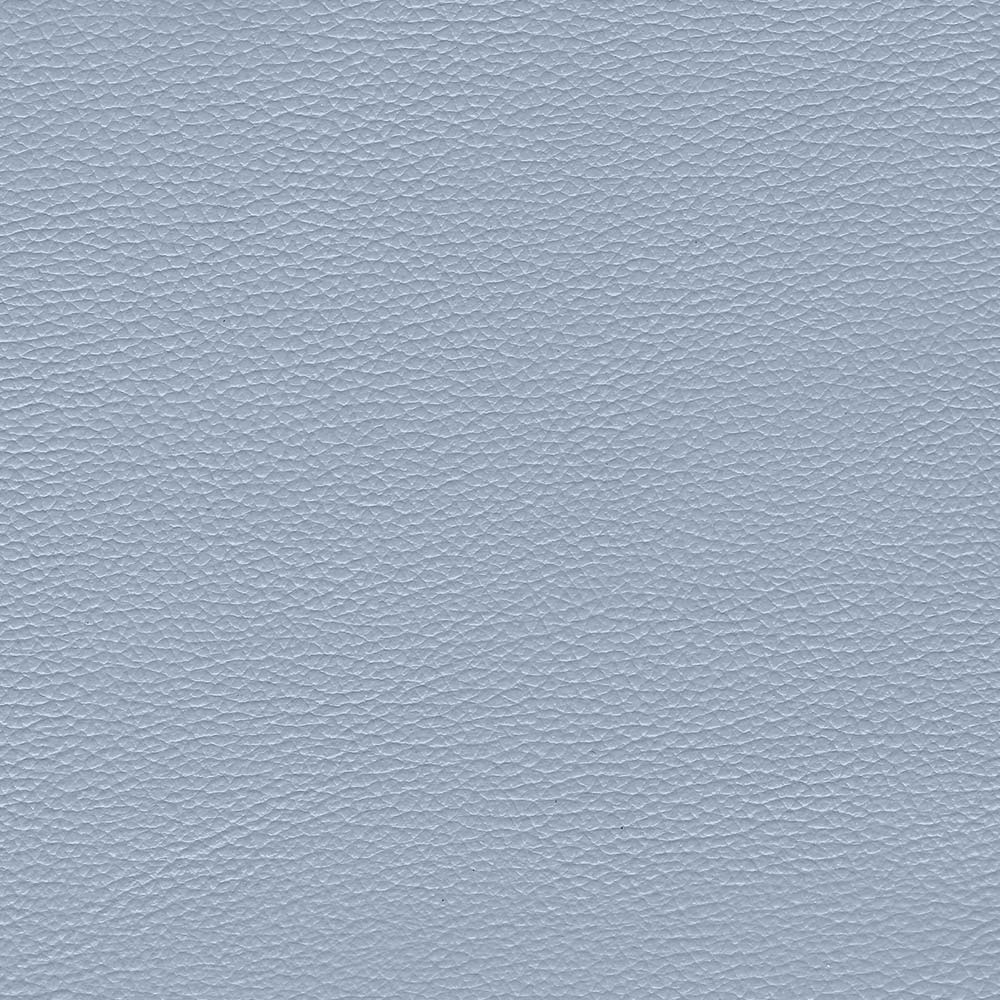
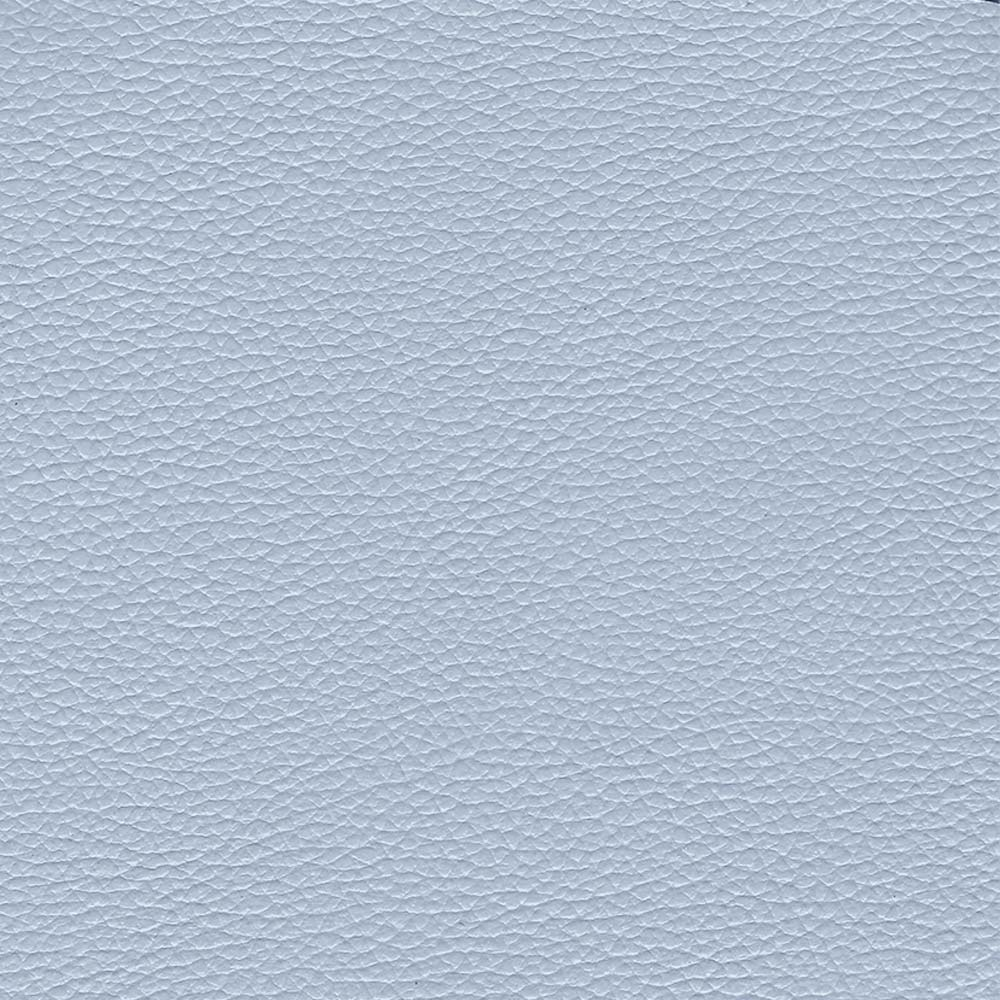
carrinho: kit em bundle mostra o preço cheio riscado e a etiqueta do desconto

diff --git a/assets/ame-theme.js b/assets/ame-theme.js
@@ -354,11 +354,20 @@ document.addEventListener('DOMContentLoaded', () => {
       ? item.featured_image.url.replace(/(\.[^.?]+)(\?.*)?$/, '_200x200$1$2')
       : '';
     const v = item.variant_title && item.variant_title !== 'Default Title';
-    const disc =
-      item.original_line_price !== item.final_line_price
-        ? `<span class="ame-cart-item__price-original">${fmt(item.original_line_price)}</span>`
-        : '';
     const props = item.properties || {};
+    // Kit vendido como bundle: desconto é PREÇO da variação, a Shopify não risca
+    // nada. O ame-kit.js manda o preço cheio por unidade em `_preco_cheio`
+    // (centavos). Manter igual ao bloco de preço de snippets/cart-drawer.liquid.
+    const kitCheio = (parseInt(props._preco_cheio, 10) || 0) * (item.quantity || 1);
+    let disc = '';
+    if (item.original_line_price !== item.final_line_price) {
+      disc = `<span class="ame-cart-item__price-original">${fmt(item.original_line_price)}</span>`;
+    } else if (kitCheio > item.final_line_price) {
+      const pct = Math.round(((kitCheio - item.final_line_price) * 100) / kitCheio);
+      disc =
+        `<span class="ame-cart-item__kit-tag">−${pct}% no kit</span>` +
+        `<span class="ame-cart-item__price-original">${fmt(kitCheio)}</span>`;
+    }
     // Lê _kit (novo) ou _coleira_key (legado — retrocompat pra carts abertos
     // com pedido gerado antes da renomeação).
     const coleiraKey = props._kit || props._coleira_key || '';

diff --git a/assets/ame-kit.js b/assets/ame-kit.js
@@ -1067,6 +1067,10 @@
                     quantity: 1,
                     properties: Object.assign({}, ...propsByComp, {
                         _from_kit: '1',
+                        // Preço cheio (soma das peças, centavos, por unidade): o
+                        // carrinho usa pra riscar e mostrar o desconto do kit —
+                        // o /cart.js não traz compare_at. Só exibição.
+                        ...(bv.cheio > bv.preco ? { _preco_cheio: String(bv.cheio) } : {}),
                         ...(willAddPingente ? { _kit: coleiraKey } : {}),
                         ...(Object.keys(camposPorPeca).length ? { _campos_kit: JSON.stringify(camposPorPeca) } : {}),
                     }),

diff --git a/assets/critical.css b/assets/critical.css
@@ -1884,6 +1884,20 @@ body::after {
   text-decoration: line-through;
 }
 
+/* Etiqueta do desconto do kit (preço da variação do bundle, não desconto da
+   Shopify) — acima do preço cheio riscado. */
+.ame-cart-item__kit-tag {
+  padding: 0.125rem 0.5rem;
+  border-radius: 999px;
+  background: var(--pdp-btn-bg, var(--color-primary, #5a4742));
+  color: var(--pdp-btn-fg, var(--color-on-primary, #ffffff));
+  font-size: 0.625rem;
+  font-weight: 600;
+  letter-spacing: 0.04em;
+  text-transform: uppercase;
+  white-space: nowrap;
+}
+
 .ame-cart-item__price {
   font-size: 0.9375rem;
   font-weight: 600;
